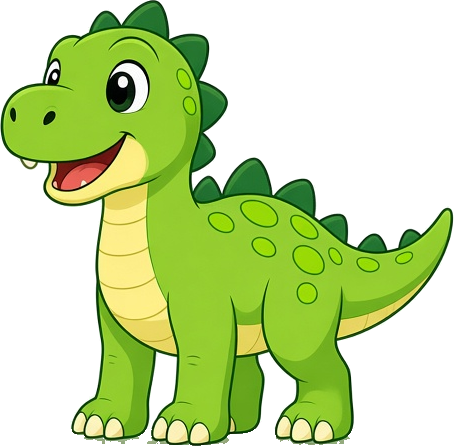
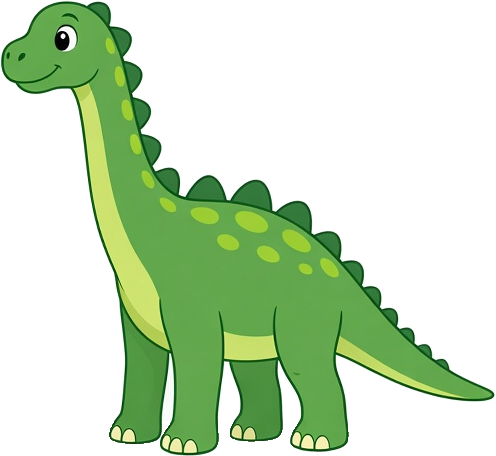
Turn poses from the long-necked turnaround (v2), scaled by body, graded to the side sprite
tools/make_turn_poses.py now takes the sheet name (default
dino_turnaround_v2.jpg) and splits at the gaps between the figures. The
poses are scaled by body (hips-to-feet 161 px, like the side body, x0.583 of
the sheet), feet on the baseline, and graded at load so their body green and
belly tones match the side sprite (per-channel curve through black and
white). Timing, crossfades, hit shapes and the bonk rule are unchanged.

diff --git a/dinobees/dino.py b/dinobees/dino.py
@@ -13,7 +13,7 @@ from .settings import (CHOMP_COOLDOWN, CHOMP_TIME, DINO_BELLY, DINO_BELLY_SHADE,
                        INVULNERABLE_TIME, WIDTH)
 
 TURN_HOLD = 0.55                  # share of each turn step a pose holds before fading on
-TURN_POSE_HEIGHT = 285            # px, the generated turn poses (matches the dino with his neck at rest)
+TURN_POSE_SCALE = 0.583           # sheet px -> screen: hips-to-feet height matches the side body (161 px)
 TURN_POSES = ("dino_turn_34_right.png", "dino_turn_front.png", "dino_turn_34_left.png")
 TURN_TIME = 0.42                  # seconds for a full about-turn
 TURN_MIN_SCALE = 0.2              # thinnest he gets, edge-on mid-turn
@@ -142,6 +142,35 @@ def _build_walk_frames(body):
     return frames
 
 
+def _tones(surf):
+    """Median body green and belly yellow of a sprite (opaque pixels)."""
+    rgb = pygame.surfarray.array3d(surf).reshape(-1, 3).astype(np.float32)
+    a = pygame.surfarray.array_alpha(surf).reshape(-1)
+    rgb = rgb[a > 250]
+    lum = rgb @ np.array([0.3, 0.6, 0.1], np.float32)
+    green = rgb[(rgb[:, 0] < 140) & (rgb[:, 1] > 130) & (lum > 110)]
+    belly = rgb[(rgb[:, 0] > 150) & (rgb[:, 1] > 180)]
+    return np.median(green, axis=0), np.median(belly, axis=0)
+
+
+def _grade_to(surf, target):
+    """Grade a sprite so its green and belly tones land on the target's,
+    per channel through black and white (outlines stay dark)."""
+    src = _tones(surf)
+    out = surf.copy()
+    rgb = pygame.surfarray.pixels3d(out)
+    for ch in range(3):
+        xs = [0.0, src[0][ch], src[1][ch], 255.0]
+        ys = [0.0, target[0][ch], target[1][ch], 255.0]
+        order = np.argsort(xs)
+        xs = np.array(xs)[order]
+        ys = np.maximum.accumulate(np.array(ys)[order])
+        lut = np.interp(np.arange(256), xs, ys).astype(np.uint8)
+        rgb[..., ch] = lut[rgb[..., ch]]
+    del rgb
+    return out
+
+
 class DinoArt:
     """All dinosaur sprites, pre-graded for every theme."""
 
@@ -165,10 +194,11 @@ class DinoArt:
         self.frame_size = base_frames[0].get_size()
         # generated turn poses (tools/make_turn_poses.py), pre-graded per theme
         poses = []
+        side_tones = _tones(body)
         for name in TURN_POSES:
-            img = assets.load(name)
-            k = TURN_POSE_HEIGHT / img.get_height()
-            img = pygame.transform.smoothscale(img, (round(img.get_width() * k), TURN_POSE_HEIGHT))
+            img = _grade_to(assets.load(name), side_tones)
+            k = TURN_POSE_SCALE
+            img = pygame.transform.smoothscale(img, (round(img.get_width() * k), round(img.get_height() * k)))
             a = pygame.surfarray.array_alpha(img)
             h = a.shape[1]
             feet = np.where((a[:, h - 14:] > 128).any(axis=1))[0]

diff --git a/tools/make_turn_poses.py b/tools/make_turn_poses.py
@@ -1,5 +1,6 @@
 #!/usr/bin/env python3
-"""Cut the three turn poses out of tools/art/dino_turnaround.jpg (white
+"""Cut the three turn poses out of tools/art/dino_turnaround_v2.jpg (or the file named
+on the command line; white
 background, grey ground line) into assets/:
   dino_turn_34_right.png  three-quarter, facing right-front
   dino_turn_front.png     facing the camera
@@ -15,8 +16,7 @@ sys.path.insert(0, os.path.dirname(os.path.abspath(__file__)))
 from cutout_white import cutout  # noqa: E402
 
 ROOT = os.path.dirname(os.path.dirname(os.path.abspath(__file__)))
-SRC = os.path.join(ROOT, "tools", "art", "dino_turnaround.jpg")
-SPLITS = [(0, 495), (495, 785), (785, 1280)]
+SRC = os.path.join(ROOT, "tools", "art", sys.argv[1] if len(sys.argv) > 1 else "dino_turnaround_v2.jpg")
 NAMES = ["dino_turn_34_right.png", "dino_turn_front.png", "dino_turn_34_left.png"]
 GROUND = (540, 566)          # rows holding the grey ground line
 
@@ -25,6 +25,19 @@ band = im[GROUND[0]:GROUND[1]].astype(int)
 grey = (band.max(axis=2) - band.min(axis=2) < 40) & (band.min(axis=2) > 90)
 band[grey] = 255
 im[GROUND[0]:GROUND[1]] = band.astype(np.uint8)
+# split at the two widest empty column gaps between the figures
+occ = ((255 - im.astype(int)).max(axis=2) > 30).any(axis=0)
+gaps, start = [], None
+for x, o in enumerate(list(occ) + [True]):
+    if not o and start is None:
+        start = x
+    elif o and start is not None:
+        if start > 0 and x < len(occ):
+            gaps.append((x - start, (start + x) // 2))
+        start = None
+cuts = sorted(c for _, c in sorted(gaps)[-2:])
+SPLITS = [(0, cuts[0]), (cuts[0], cuts[1]), (cuts[1], im.shape[1])]
+print("splits", SPLITS)
 for (x0, x1), name in zip(SPLITS, NAMES):
     part = Image.fromarray(im[:, x0:x1])
     out = cutout(part)

diff --git a/tools/turn_sheet.py b/tools/turn_sheet.py
@@ -16,7 +16,7 @@ g.spawner.update = lambda dt, n: []
 for _ in range(40):
     g.update(DT)
 d = g.dino
-d.h = d.h_target = 0.75
+d.h = d.h_target = 0.45   # neck at rest
 d._geom = None
 
 def turn_for(u):

diff --git a/README.md b/README.md
@@ -35,7 +35,7 @@ don't let any bee bump into his head, neck or body without being eaten, or he ge
   cycles through **Day, Sunset, Night and Volcano Glow**, then round again on a harder ramp.
 * **Turning round**: Left and Right turn him to face the other way. He swings round through drawn
   three-quarter, front-on and three-quarter poses (`tools/make_turn_poses.py` cuts them out of
-  `tools/art/dino_turnaround.jpg`), with quick crossfades between them, strolls across to the other side of the screen and the world scrolls the
+  `tools/art/dino_turnaround_v2.jpg`), with quick crossfades between them, strolls across to the other side of the screen and the world scrolls the
   way he is walking. Bees always fly in from the right, so facing left puts his armoured back
   towards them: **any bee that catches him up from behind bounces off his back plates ("Bonk!")
   and can't sting him**. He can't eat facing away either, and a yellow bee that bounces off still
